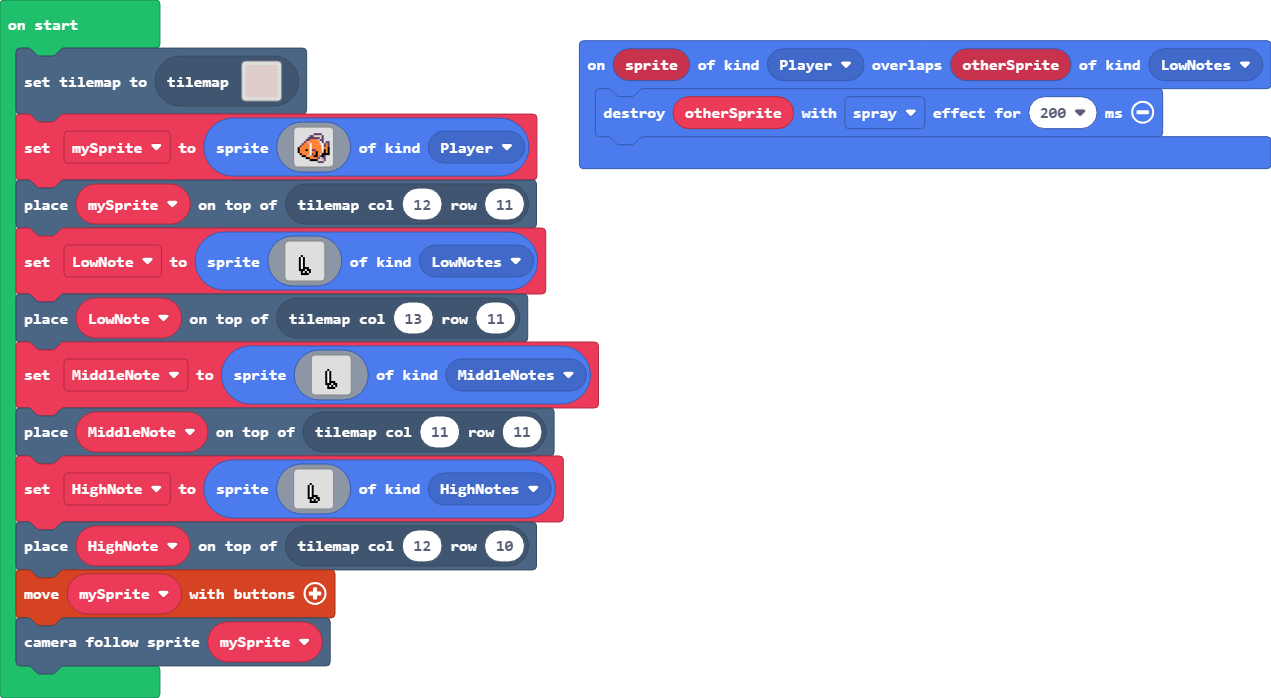
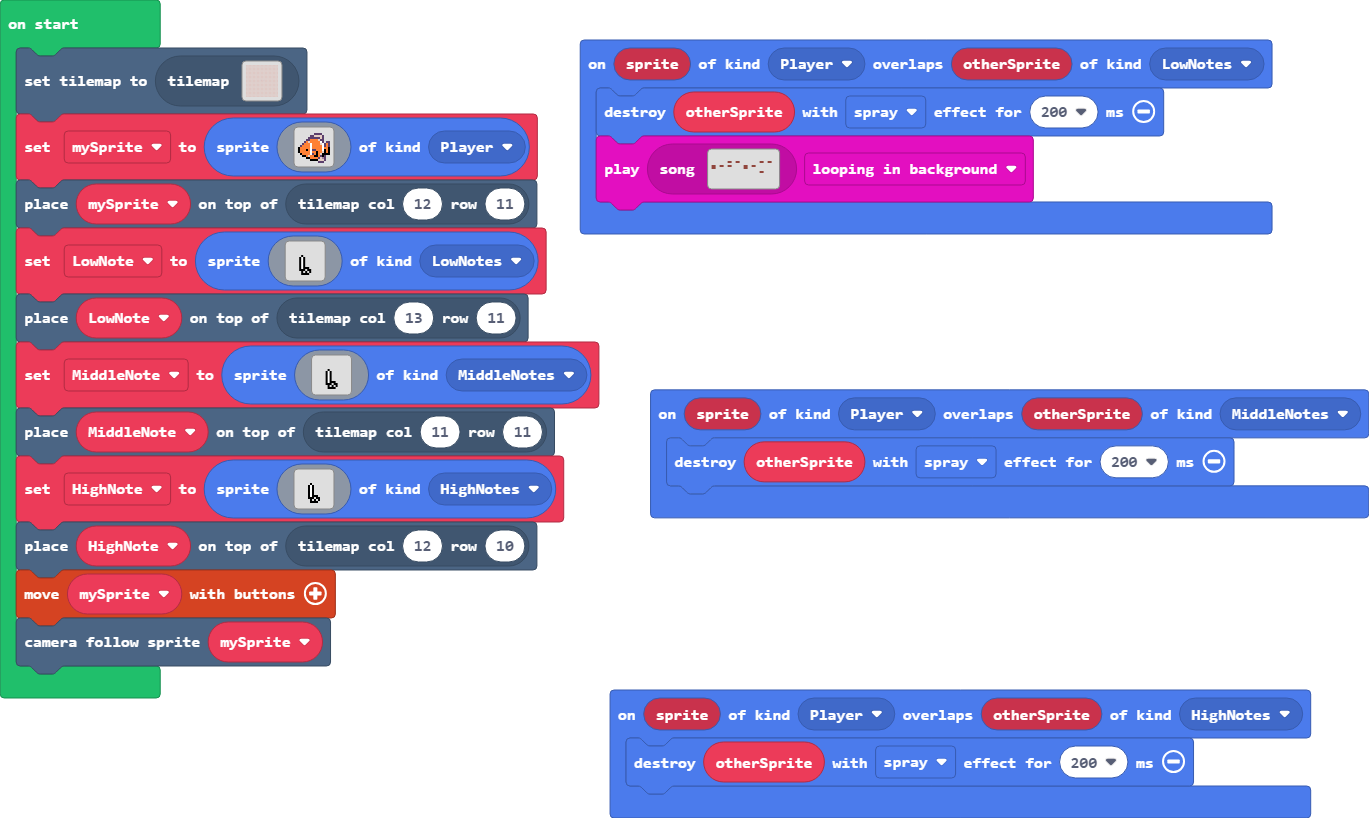
Update main.blocks, main.ts

diff --git a/main.ts b/main.ts
@@ -3,7 +3,14 @@ namespace SpriteKind {
     export const MiddleNotes = SpriteKind.create()
     export const HighNotes = SpriteKind.create()
 }
+sprites.onOverlap(SpriteKind.Player, SpriteKind.HighNotes, function (sprite, otherSprite) {
+    sprites.destroy(otherSprite, effects.spray, 200)
+})
 sprites.onOverlap(SpriteKind.Player, SpriteKind.LowNotes, function (sprite, otherSprite) {
+    sprites.destroy(otherSprite, effects.spray, 200)
[1 lines of base64/hex data omitted]
+})
+sprites.onOverlap(SpriteKind.Player, SpriteKind.MiddleNotes, function (sprite, otherSprite) {
     sprites.destroy(otherSprite, effects.spray, 200)
 })
 tiles.setCurrentTilemap(tilemap`level2`)
